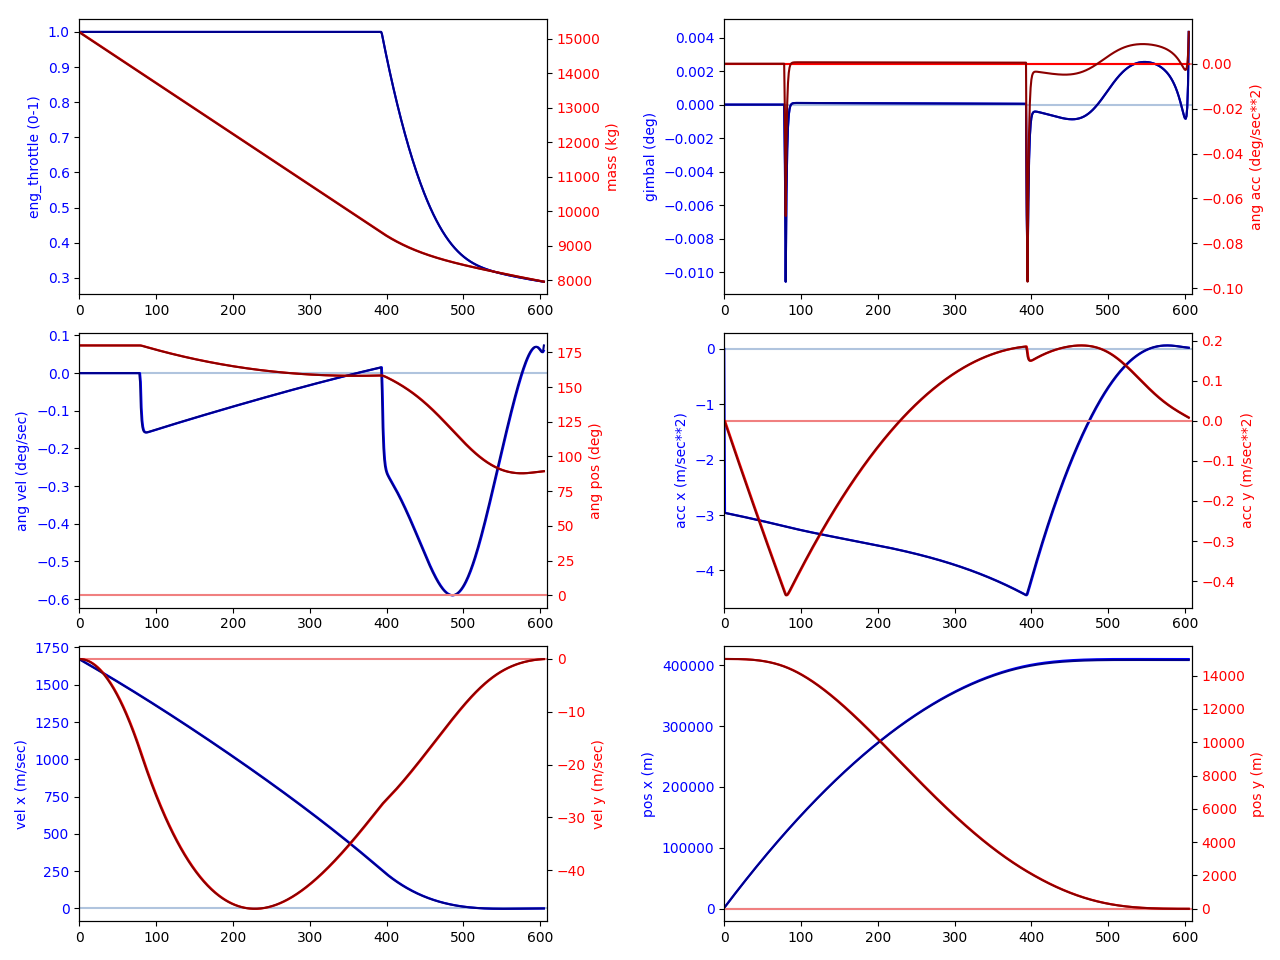
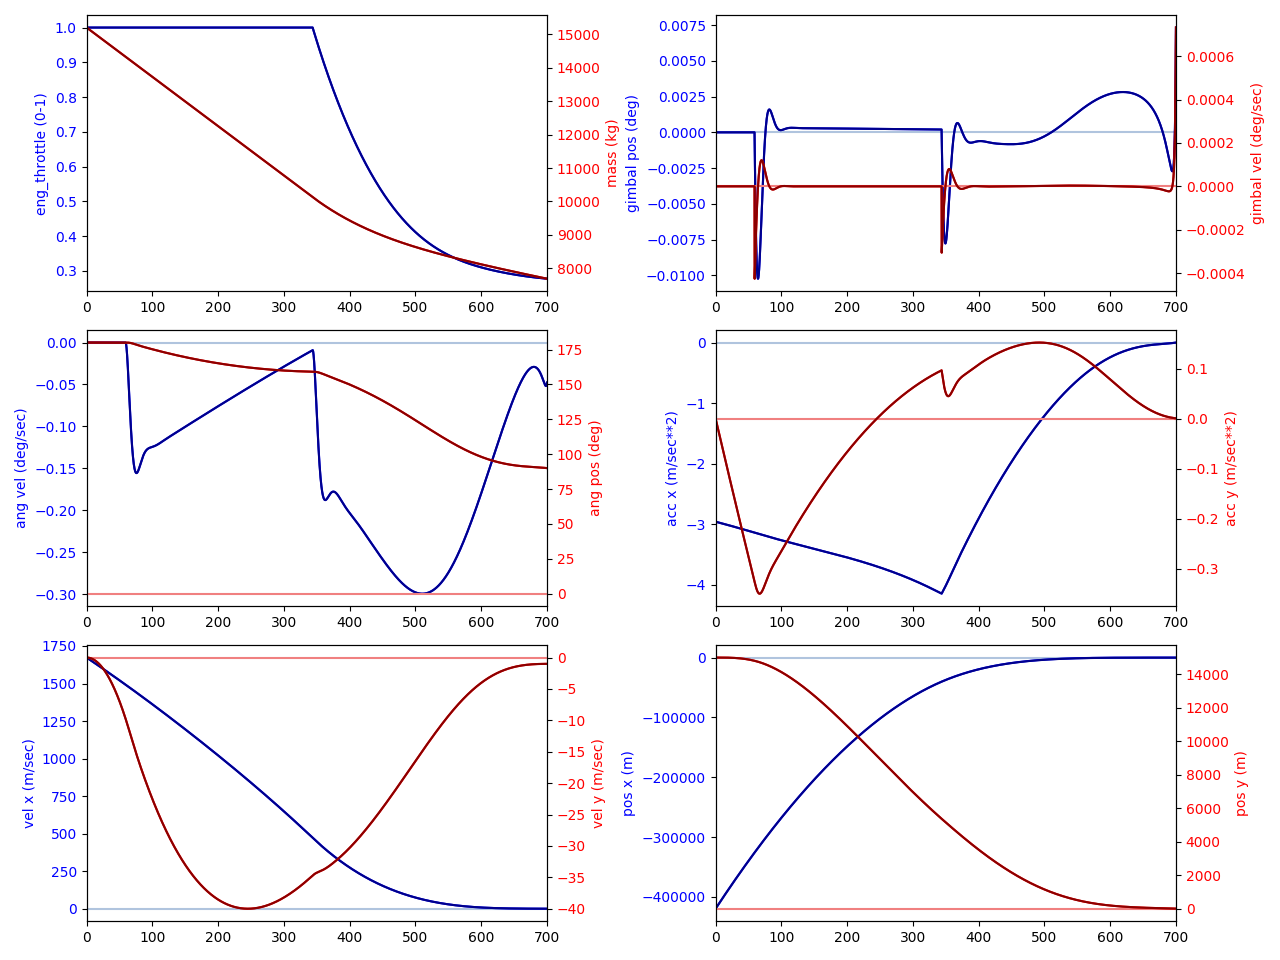
[src] Refacto to load conf from file

diff --git a/src/conf.rs b/src/conf.rs
@@ -1,14 +1,11 @@
-use std::f64::consts::PI;
+use serde::{Serialize, Deserialize};
 
-use crate::utils::space::G0;
 use crate::utils::math::Vec2;
 
 
 #[derive(Clone, Copy)]
-pub struct Conf {
-    pub dt_step: f64,               // unit: sec
-    pub dt_sleep: f64,              // unit: sec
-
+#[derive(Serialize, Deserialize)]
+pub struct Scenario {
     pub initial_sc_pos: Vec2,       // unit: m
     pub initial_sc_vel: Vec2,       // unit: m/s
     pub initial_sc_ang_pos: f64,    // unit: rad
@@ -33,42 +30,26 @@ pub struct Conf {
     // compute_tgo() assumes a 100% thrust, but on average you want the engine to run at X %
     pub gui_thrust_mul: f64,        // unit: -
 
-    pub ctr_eng_gimbal_pos_max: f64,  // unit: deg
-    pub ctr_eng_gimbal_vel_max: f64,  // unit: deg/s
+    pub ctr_eng_gimbal_pos_max: f64,    // unit: rad
+    pub ctr_eng_gimbal_vel_max: f64,    // unit: rad/s
 }
 
+
+#[derive(Clone, Copy)]
+pub struct Conf {
+    pub dt_step: f64,               // unit: sec
+    pub dt_sleep: f64,              // unit: sec
+
+    pub s: Scenario,
+}
+
+
 impl Conf {
-    pub fn new(dt_step: f64, dt_sleep: f64) -> Conf {
+    pub fn new(dt_step: f64, dt_sleep: f64, scenario: Scenario) -> Conf {
         Conf {
             dt_step: dt_step,
             dt_sleep: dt_sleep,
-
-            initial_sc_pos: Vec2 {x: 0.0, y: 15_000.0},
-            initial_sc_vel: Vec2 {x: 1673.0, y: 0.0},  // (MOON_MU/(MOON_RADIUS+15_000))**.5
-            initial_sc_ang_pos: 180.0*PI/180.0,
-            initial_sc_fuel_mass: 8400.0,
-
-            sc_width: 4.0,
-            sc_height: 8.0,
-            sc_dry_mass: 6_800.0,
-
-            sc_nominal_thrust: 45_000.0,
-            sc_nominal_isp: 311.0,
-            sc_nominal_mass_flow: 45_000.0/(311.0*G0),
-
-            gui_af_x: 0.0,
-            gui_vf_x: 0.0,
-            gui_pf_x: 430_000.0,
-
-            gui_af_y: 0.0,
-            gui_vf_y: 0.0,
-            gui_pf_y: 0.0,
-
-            gui_thrust_mul: 0.80,
-
-            ctr_eng_gimbal_pos_max: 4.0*PI/180.0,
-            // Apollo dps: 0.2 deg / sec (https://www.ibiblio.org/apollo/Documents/SGA_Memo04_660120.pdf)
-            ctr_eng_gimbal_vel_max: 1.0*PI/180.0,
+            s: scenario,
         }
     }
 }

diff --git a/src/main.rs b/src/main.rs
@@ -11,14 +11,15 @@ mod utils;
 use std::process::exit;
 use std::{thread, time};
 use clap;
+use serde_yaml;
 use pyo3::prelude::*;
-use crate::conf::Conf;
+use crate::conf::{Scenario, Conf};
 use crate::gnc::common::Spacecraft;
 use crate::utils::space::{tgo_estimate, has_softly_landed};
 
 
 fn land(adapter: &mut dyn adapters::common::Adapter, conf: Conf) {
-    let mut sc = Spacecraft::new(conf);
+    let mut sc = Spacecraft::new(conf.s);
 
     let mut tgo = tgo_estimate(&sc, sc.conf.gui_vf_x, sc.conf.gui_vf_y, sc.conf.gui_thrust_mul);
     println!("tgo_estimate={:}", tgo);
@@ -72,6 +73,7 @@ fn main() {
             .short("c")
             .long("config")
             .help("Specify a config file")
+            .default_value("conf/default.yaml")
             .takes_value(true)
         )
         .subcommand(
@@ -86,10 +88,8 @@ fn main() {
 
     // handle cli args
 
-    // let config = matches.value_of("config").unwrap_or("conf.json");
-    // println!("Config file: {}", config);
-
-    // let conf = conf::Conf::new();  // TODO load from file, then pass to adapter
+    let f = std::fs::File::open(matches.value_of("config").unwrap()).unwrap();
+    let scenario: Scenario = serde_yaml::from_reader(f).unwrap();
 
     match matches.subcommand() {
         ("sim", submatches) => {
@@ -97,7 +97,7 @@ fn main() {
 
             let dt_step = 0.100;
 
-            let conf = Conf::new(dt_step, 0.0);
+            let conf = Conf::new(dt_step, 0.0, scenario);
 
             let mut adapter = adapters::sim::init(conf).unwrap();  // TODO handle error
 
@@ -111,7 +111,7 @@ fn main() {
             let gil = Python::acquire_gil();
             let py = gil.python();
 
-            let conf = Conf::new(0.0, dt_sleep);
+            let conf = Conf::new(0.0, dt_sleep, scenario);
 
             let mut adapter = adapters::ksp::init(&py).unwrap();  // TODO handle error
 

diff --git a/src/sim.rs b/src/sim.rs
@@ -1,12 +1,13 @@
 use crate::adapters::common::{SensorsValues, ActuatorsValues};
-use crate::conf::Conf;
+use crate::conf::{Conf, Scenario};
 use crate::spacecraft::SpacecraftDynamic;
 use crate::utils::math::Vec2;
 use crate::utils::space::{moon_centrifugal, moon_gravity};
 
 
 pub struct Sim {
-    conf: Conf,                     // spacecraft configuration / static properties
+    dt_step: f64,
+    conf: Scenario,                 // spacecraft configuration / static properties
     cur: SpacecraftDynamic,         // latest changing properties
     all: Vec<SpacecraftDynamic>,    // all changing properties
 }
@@ -15,15 +16,16 @@ pub struct Sim {
 impl Sim {
     pub fn new(conf: Conf) -> Sim {
         Sim {
-            conf: conf,
-            cur: SpacecraftDynamic::new(&conf),
+            dt_step: conf.dt_step,
+            conf: conf.s,
+            cur: SpacecraftDynamic::new(&conf.s),
             all: vec![],
         }
     }
 
     pub fn read_sensors(&self) -> Result<SensorsValues, &'static str> {
         Ok(SensorsValues {
-            dt_step: self.conf.dt_step,
+            dt_step: self.dt_step,
             spacecraft_acc: self.cur.acc,
             spacecraft_ang_acc: self.cur.ang_acc,
             spacecraft_altitude: Some(self.cur.pos.y),
@@ -31,7 +33,7 @@ impl Sim {
     }
 
     pub fn write_actuators(&mut self, control: ActuatorsValues) -> Result<(), &'static str> {
-        let dt = self.conf.dt_step;
+        let dt = self.dt_step;
         let sc_mass = self.conf.sc_dry_mass + self.cur.fuel_mass;
 
         // compute t, mass

diff --git a/src/gnc/common.rs b/src/gnc/common.rs
@@ -1,18 +1,18 @@
 use std::f64::consts::PI;
 
-use crate::conf::Conf;
+use crate::conf::Scenario;
 use crate::spacecraft::SpacecraftDynamic;
 
 
 pub struct Spacecraft {
-    pub conf: Conf,                     // spacecraft configuration / static properties
+    pub conf: Scenario,                 // spacecraft configuration / static properties
     pub cur: SpacecraftDynamic,         // latest changing properties
     pub all: Vec<SpacecraftDynamic>,    // all changing properties
 }
 
 
 impl Spacecraft {
-    pub fn new(conf: Conf) -> Spacecraft {
+    pub fn new(conf: Scenario) -> Spacecraft {
         Spacecraft {
             conf: conf,
             cur: SpacecraftDynamic::new(&conf),
@@ -43,8 +43,8 @@ impl Spacecraft {
         assert!(self.cur.acc.x.abs() < 100.0);
         assert!(self.cur.acc.y.abs() < 100.0);
 
-        assert!(-180.0*PI/180.0 <= self.cur.ang_pos);
-        assert!(self.cur.ang_pos <= 180.0*PI/180.0);
+        assert!(-180.1*PI/180.0 <= self.cur.ang_pos);
+        assert!(self.cur.ang_pos <= 180.1*PI/180.0);
 
         assert!(-5.0*PI/180.0 <= self.cur.ang_vel);
         assert!(self.cur.ang_vel <= 5.0*PI/180.0);

diff --git a/src/gnc/control.rs b/src/gnc/control.rs
@@ -1,7 +1,7 @@
 use std::f64::consts::PI;
 
 use crate::adapters::common::ActuatorsValues;
-use crate::conf::Conf;
+use crate::conf::Scenario;
 use crate::gnc::common::Spacecraft;
 use crate::utils::math::{Vec2, sign, saturate};
 
@@ -80,7 +80,7 @@ fn spacecraft_controler(goal_acc: Vec2, sc_mass: f64, sc_thrust: f64) -> (f64, f
 /// Output:
 ///     commanded (engine) gimbal_angle (respecting engine constraints) as [-1; 1] of max gimbal
 ///
-fn engine_controler(conf: &Conf, ctr_ang_pos: f64, sc_mass: f64, sc_ang_pos: f64, sc_ang_vel: f64, eng_gimbal_cur: f64) -> f64 {
+fn engine_controler(conf: &Scenario, ctr_ang_pos: f64, sc_mass: f64, sc_ang_pos: f64, sc_ang_vel: f64, eng_gimbal_cur: f64) -> f64 {
     // ang PID, I=0, D using dpos' = -vel
     let KP = 0.2;
     let KD = 1.0;

diff --git a/src/spacecraft.rs b/src/spacecraft.rs
@@ -1,4 +1,4 @@
-use crate::conf::Conf;
+use crate::conf::Scenario;
 use crate::utils::math::Vec2;
 
 
@@ -24,7 +24,7 @@ pub struct SpacecraftDynamic {
 
 
 impl SpacecraftDynamic {
-    pub fn new(conf: &Conf) -> SpacecraftDynamic {
+    pub fn new(conf: &Scenario) -> SpacecraftDynamic {
         SpacecraftDynamic {
             t: 0.0,
 

diff --git a/src/utils/math.rs b/src/utils/math.rs
@@ -1,8 +1,11 @@
 use std::ops::{Add, AddAssign, Mul};
 
+use serde::{Serialize, Deserialize};
+
 
 #[derive(Debug)]
 #[derive(Clone, Copy)]
+#[derive(Serialize, Deserialize)]
 pub struct Vec2 {
     pub x: f64,  // horizontal axis
     pub y: f64,  // vertical axis

diff --git a/README.md b/README.md
@@ -28,8 +28,8 @@ I/O will be implemented via adapters (to be able to swap between the simulator a
 
 **Dependencies**
 
-* Rust
-* For KSP subcommand
+* Rust (and a few crates)
+* For the `ksp` subcommand:
     * KSP game
     * Krpc addon: `sudo pip3 install krpc`
 
@@ -41,16 +41,17 @@ I/O will be implemented via adapters (to be able to swap between the simulator a
 
 Sim:
 
-1. `cargo run -- sim`
+1. `cargo run -- -c conf/Apollo-descent.yaml sim`
 
 KSP:
 
 1. Start KSP and Krpc
-2. `cargo run -- ksp`
+2. `cargo run -- -c conf/Apollo-descent.yaml ksp`
 
 **Plotting**
 
-You can pipe moon_lander's stdout to plotter.py: `cargo run -- sim | python3 plotter.py`.
+You can pipe moon_lander's stdout to plotter.py: `cargo run -- -c conf/Apollo-descent.yaml sim | py plotter.py `.
+It will run MoonLander, then show some curves.
 The graphs will also be saved as `output.png`.
 
 Example:

diff --git a/TODO.md b/TODO.md
@@ -20,7 +20,7 @@
         * [ok] During sim loop: check fuel and other constraints (angles)
     * [ok] Implement export to csv and Python plotter
     * [ok] Implement dt
-    * [ok] Implement conf settings
+    * [ok] Implement conf settings + load from yaml
     * [wip] Refacto gui to allow several guidance methods (tgo landing, tgo ascent, fixed ascent)
     * [ok] Spacecraft angle / Engine gimbal PID
 2. KSP
